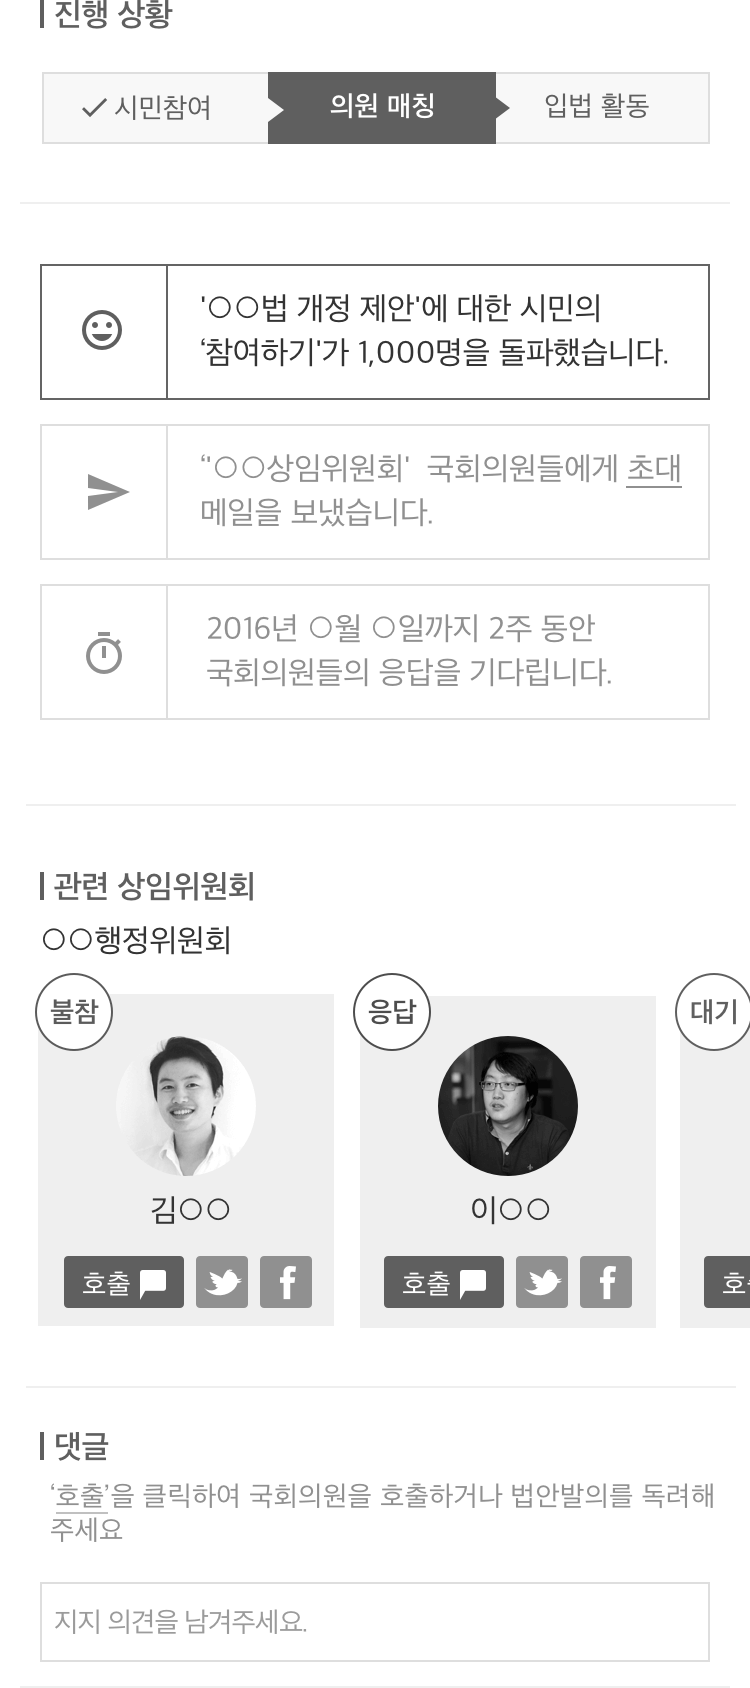
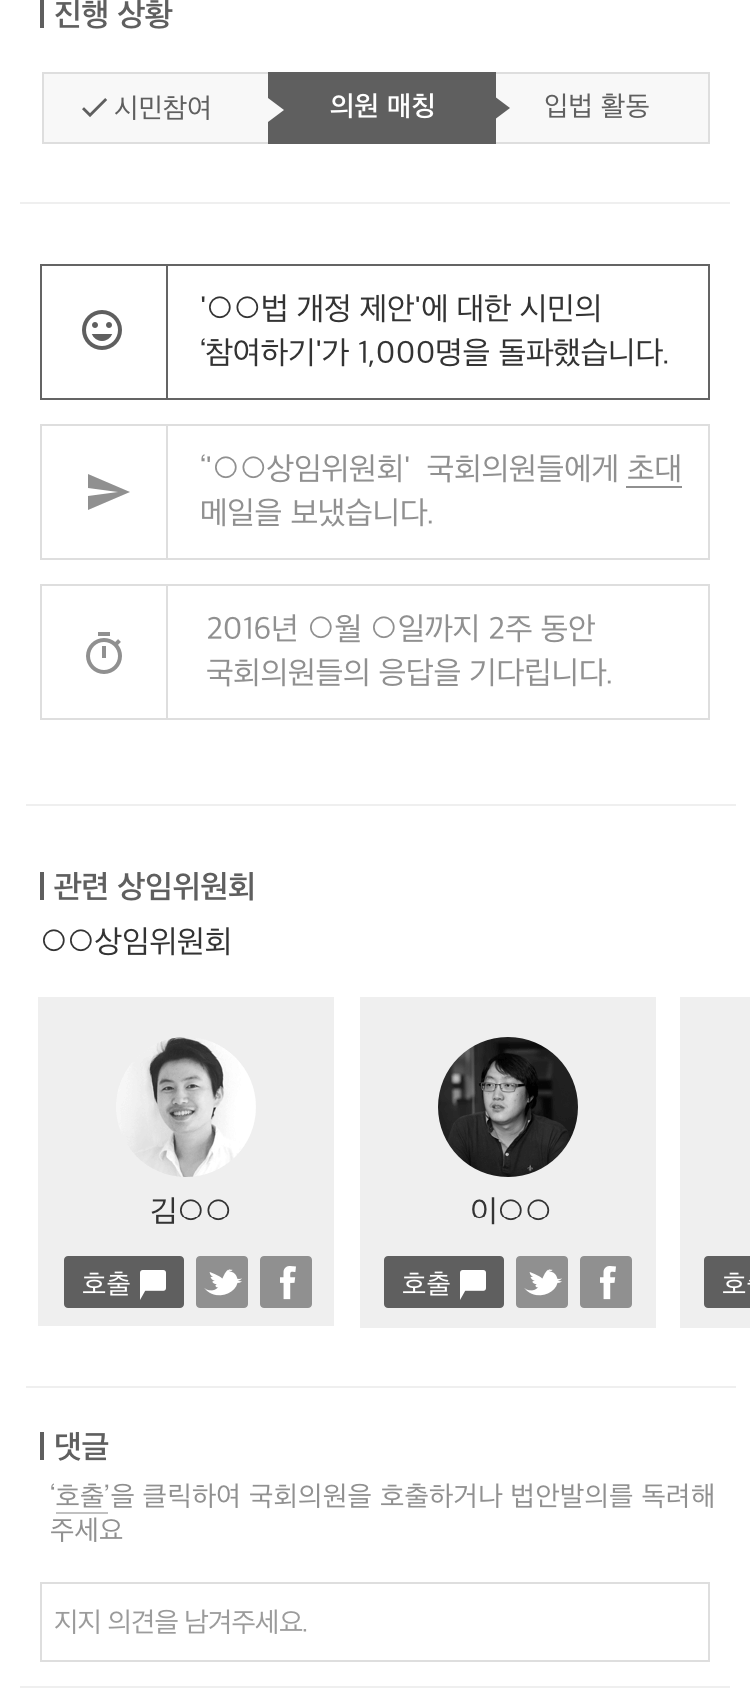
예시이미지를 교체하고, 폰트스타일을 수정합니다. #358

diff --git a/app/assets/stylesheets/components/_webui_popover.scss b/app/assets/stylesheets/components/_webui_popover.scss
@@ -21,7 +21,7 @@
     font-size: $font-size-base;
   }
   .project-example-sample {
-    @include responsive-font-size-large();
+    @include responsive-font-size-small();
     color: $brand-primary;
     margin-bottom: 2px;
   }
